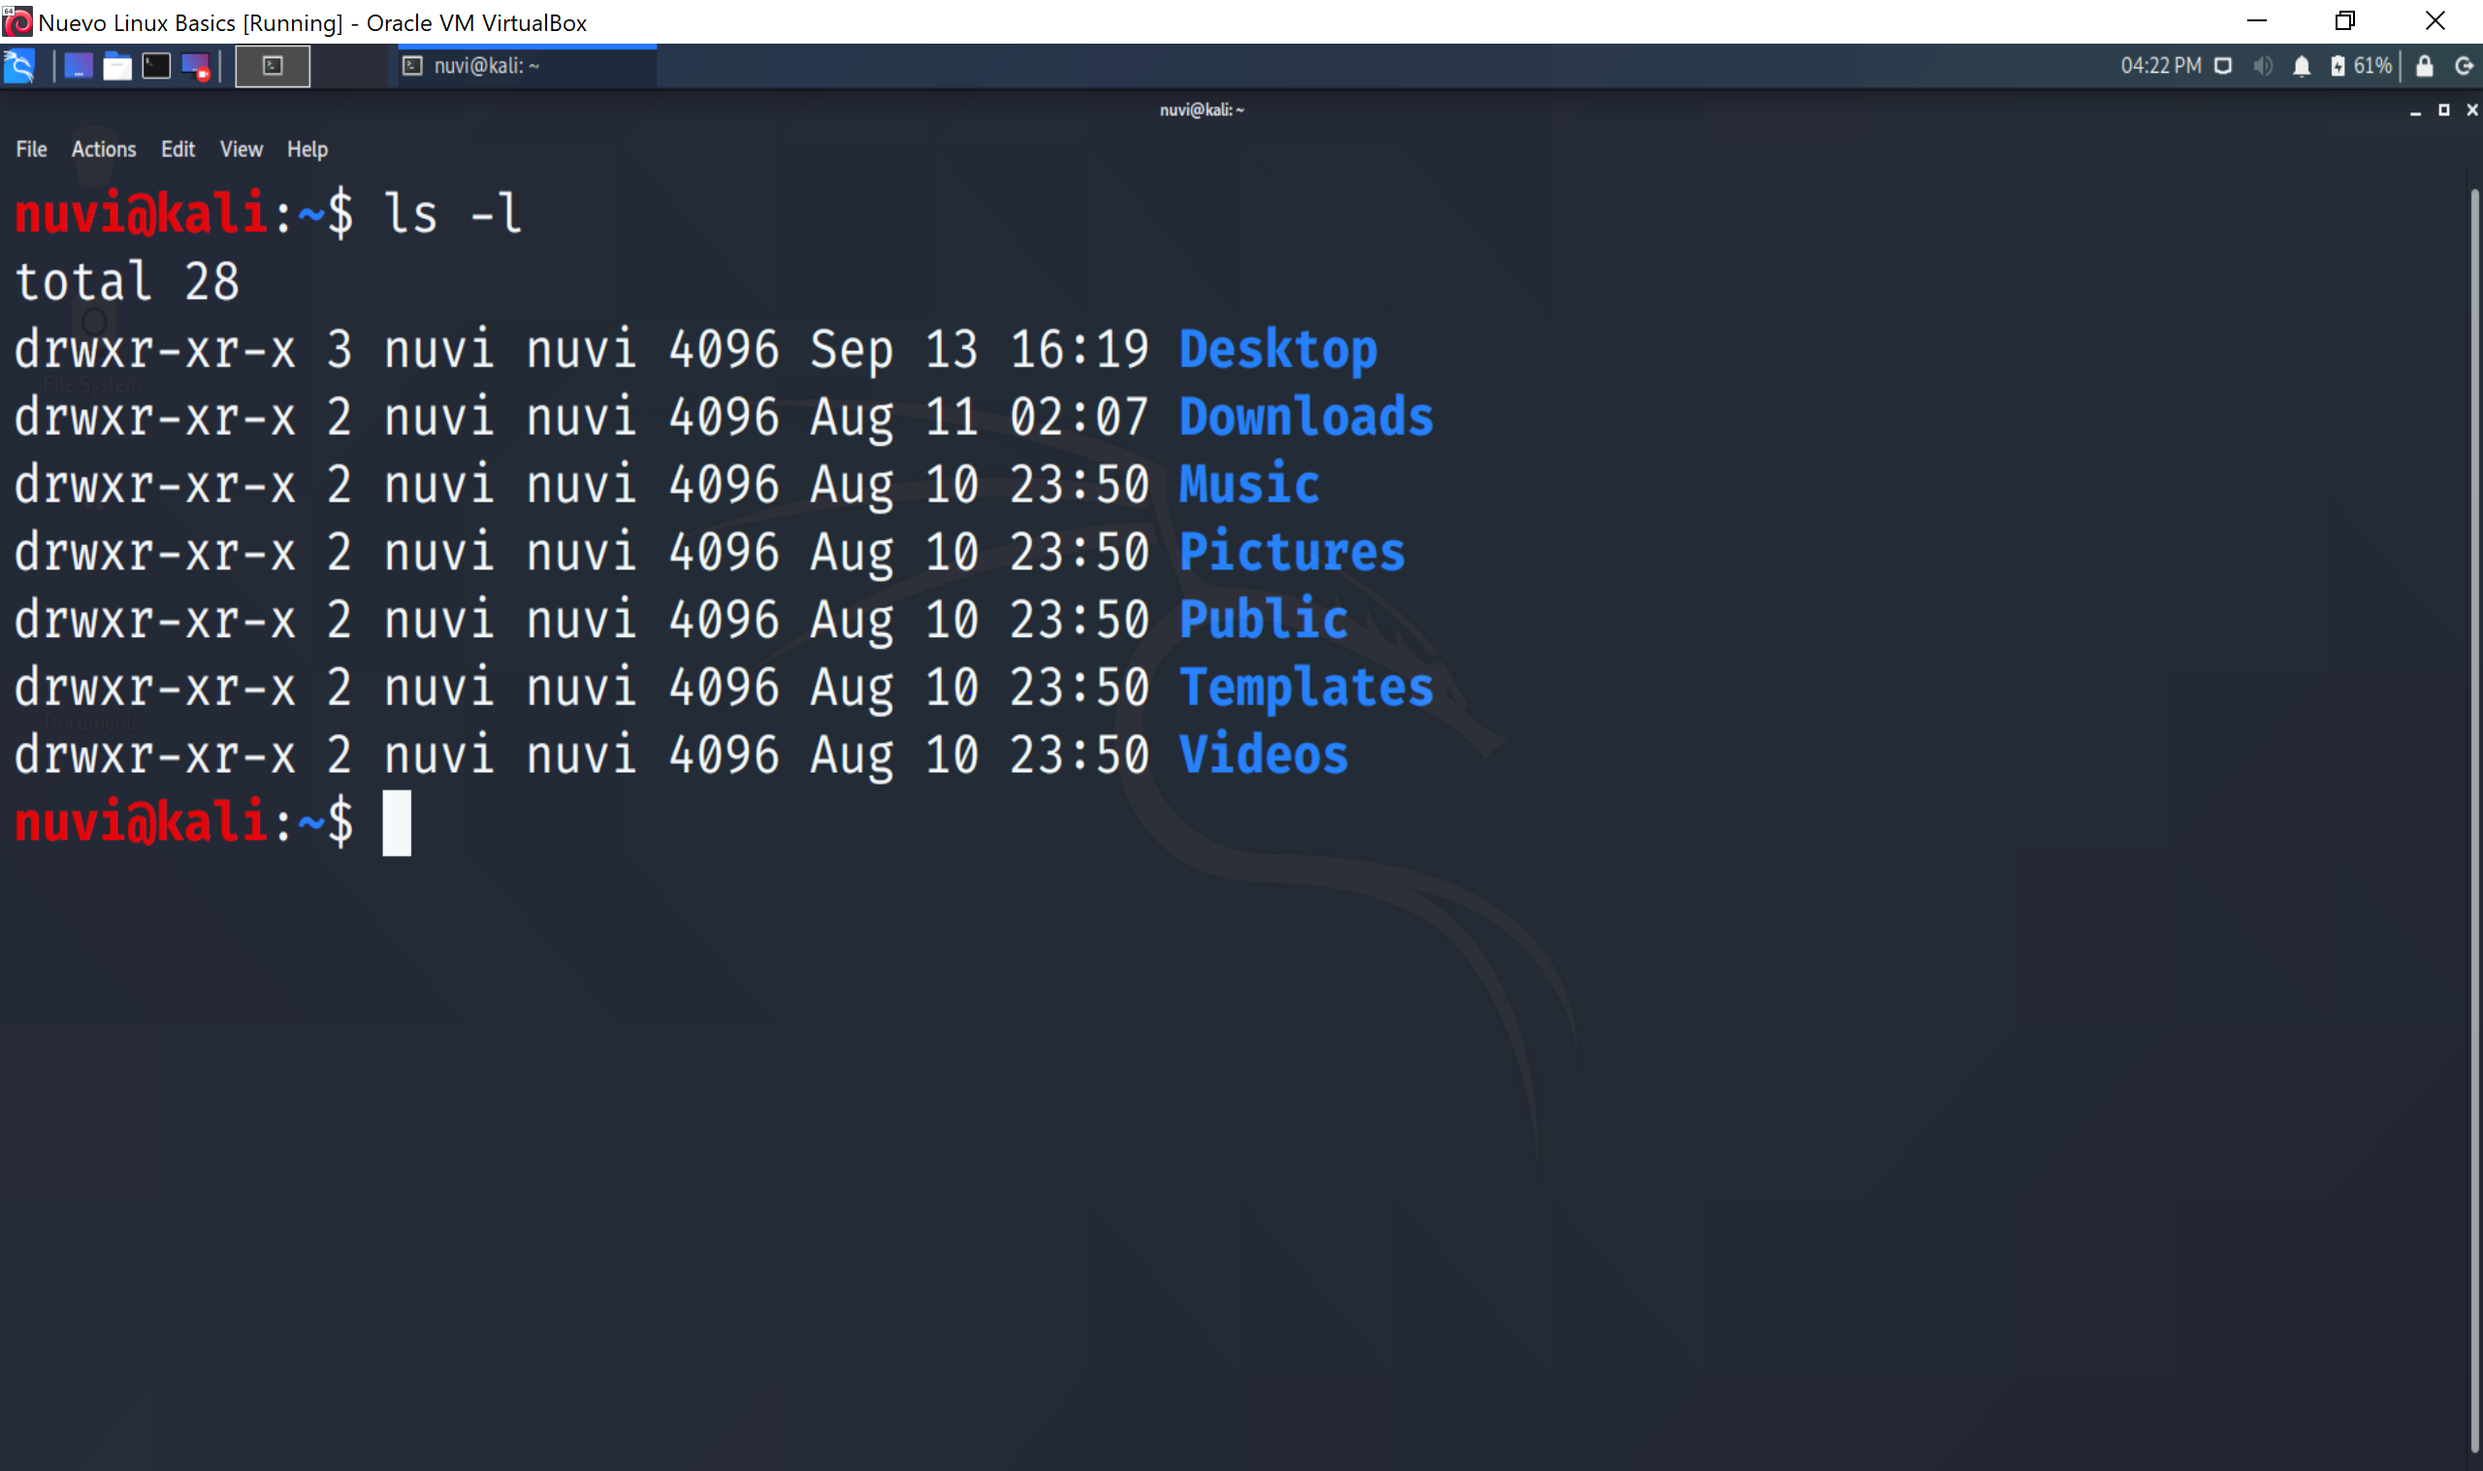
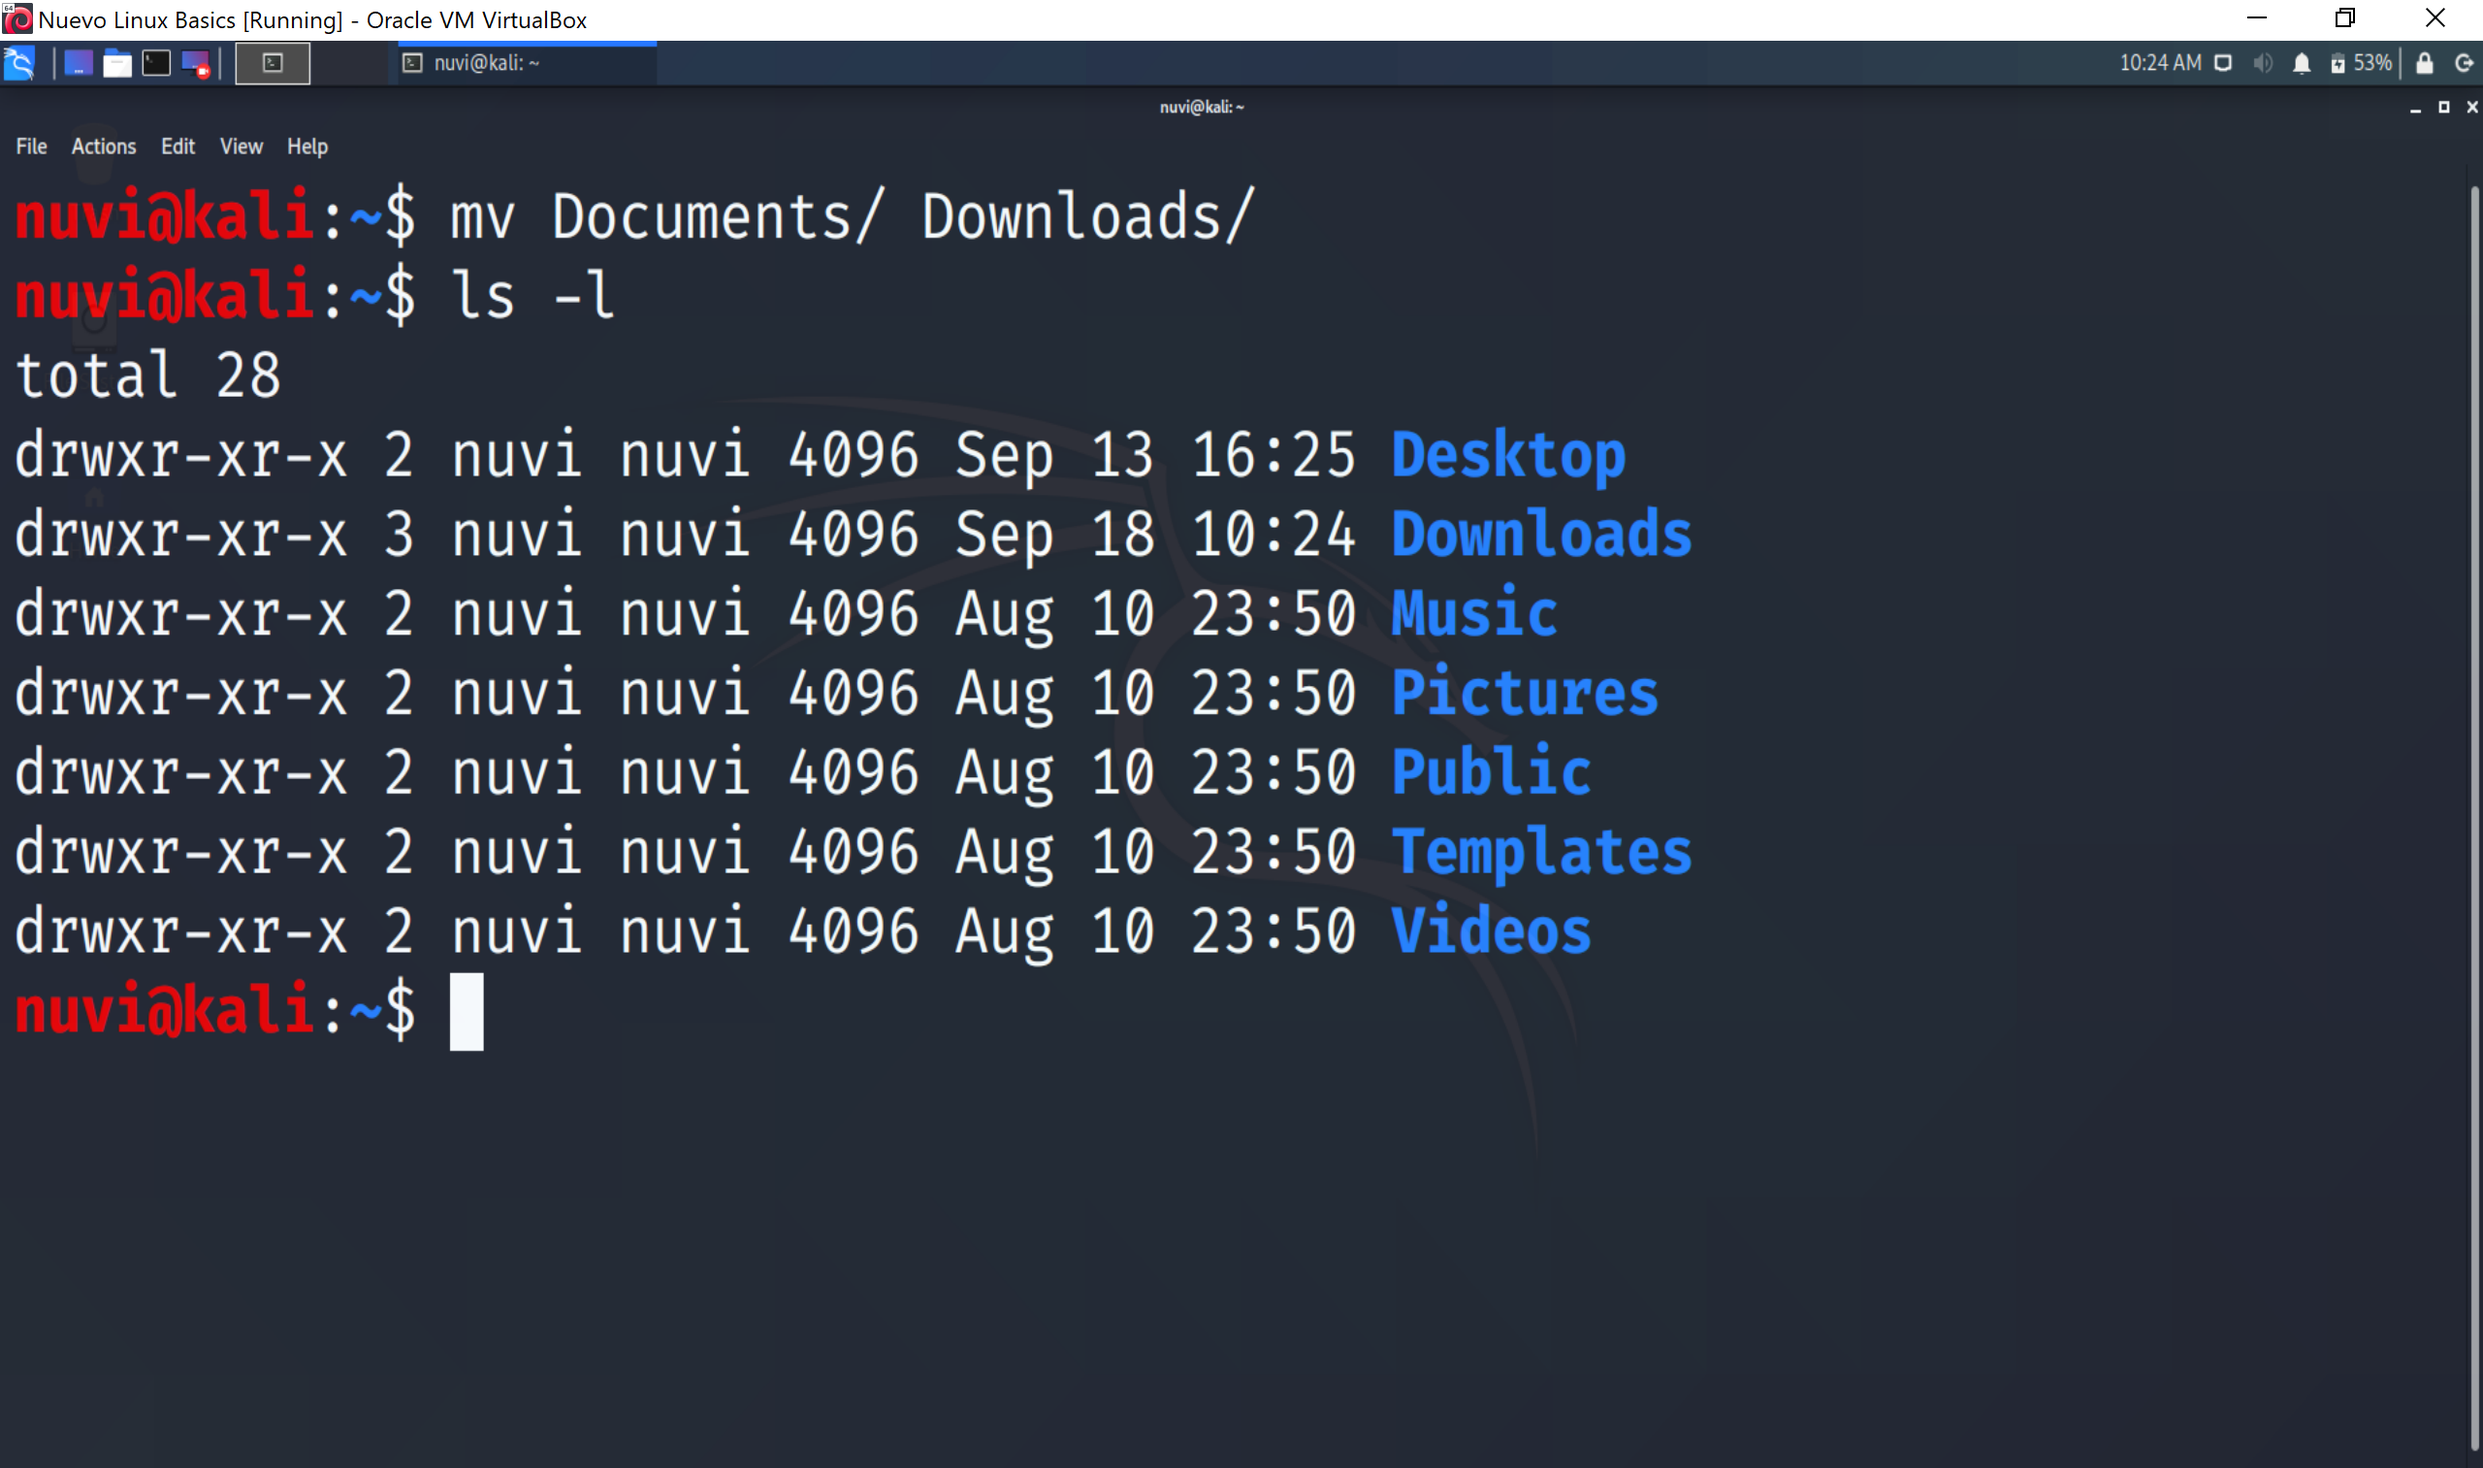
activity 3 screenshot updated

diff --git a/content/english/linux-basics/activity-3.md b/content/english/linux-basics/activity-3.md
@@ -52,7 +52,7 @@ Now type in `ls -l` one more time and look at the output.
 You should see that the directory `Documents` no longer appears, because it was moved into the `Downloads` directory.
 
 {{% notice tip %}}
-We can it moved into `Downloads` by using the `ls` command with an added directory path.
+We can see that it moved into `Downloads` by using the `ls` command with an added directory path.
 ```
 ls -l Downloads/
 ```
